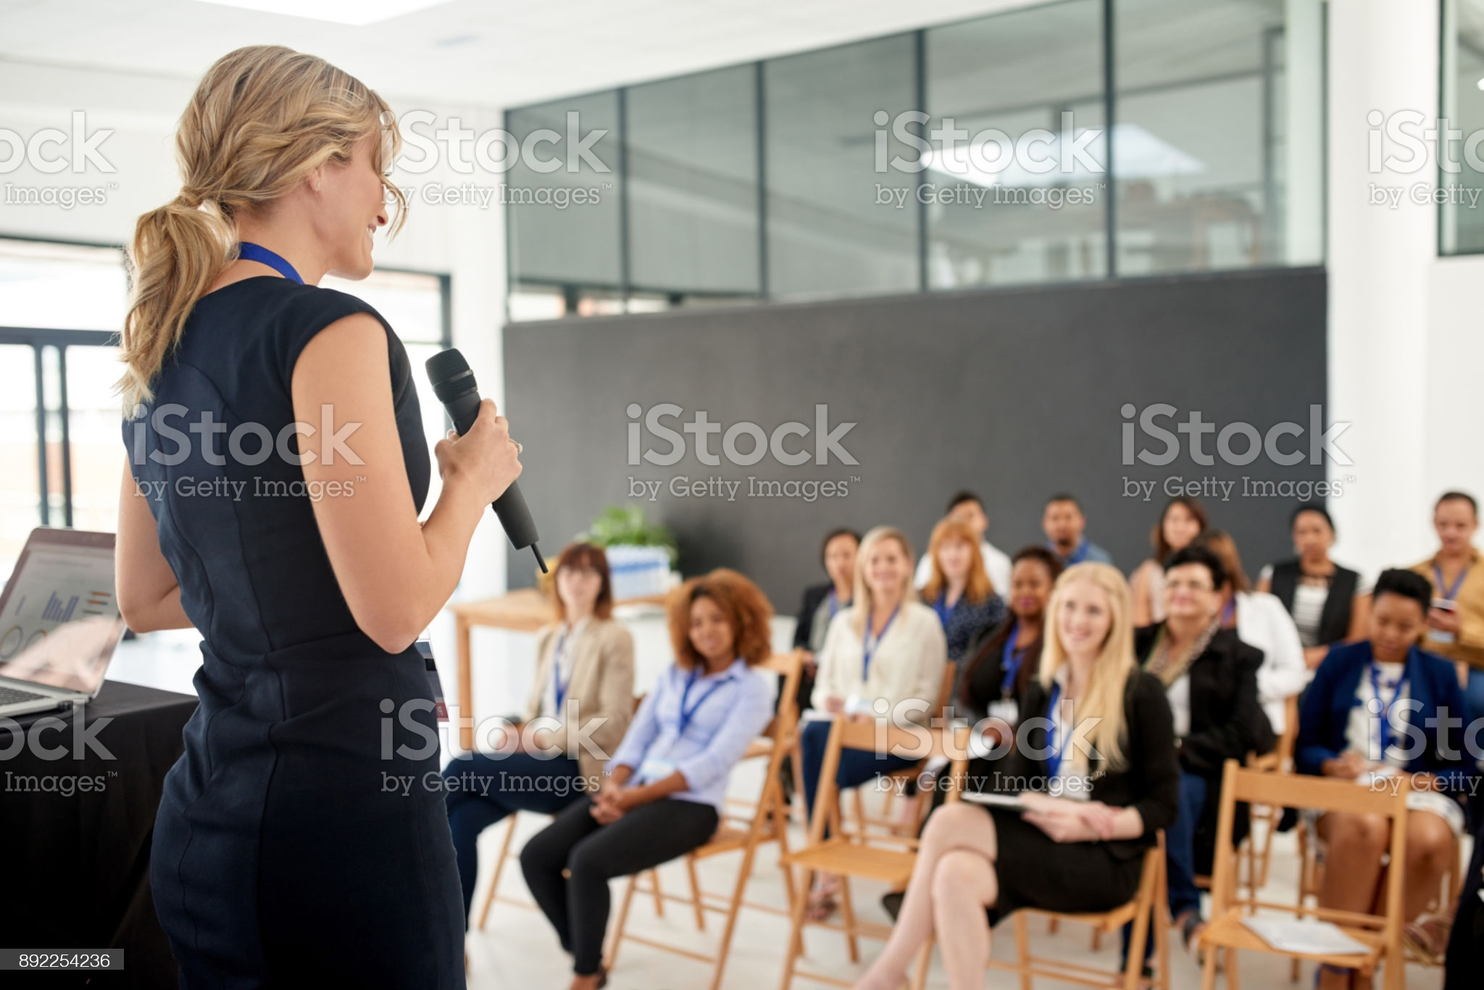
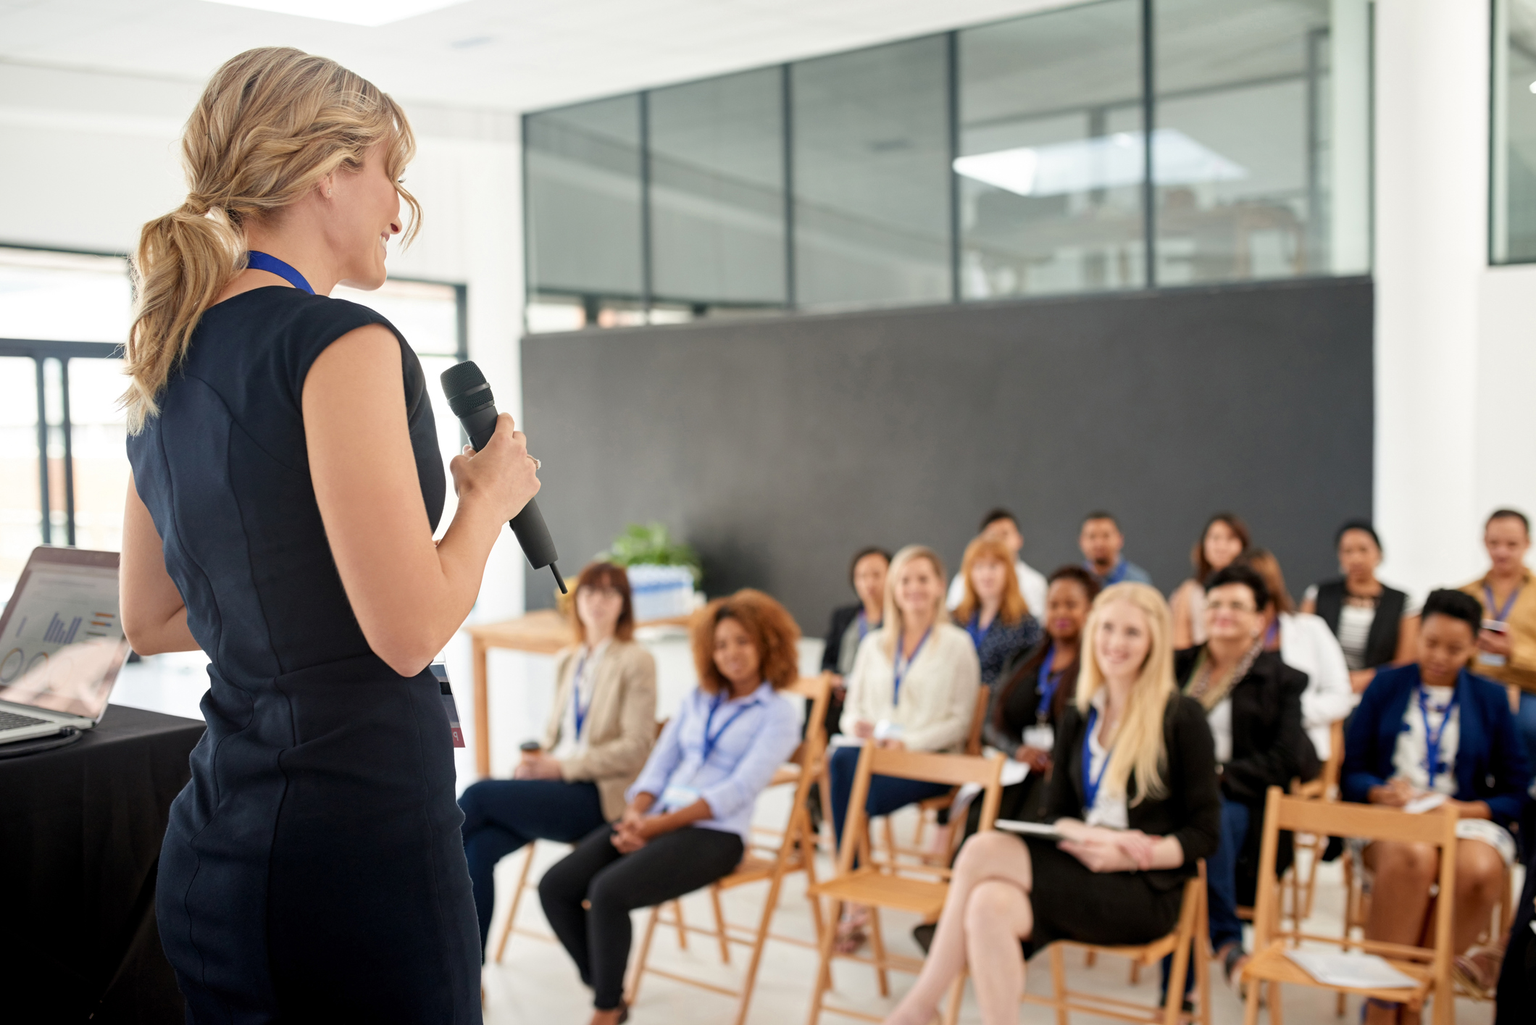
images swap

diff --git a/_site/2020-pitchdeckworkshop.html b/_site/2020-pitchdeckworkshop.html
@@ -1,1 +1,1 @@
-<!DOCTYPE html> <html lang="en" dir="ltr"> <head> <meta charset="utf-8"> <title> Pitch Deck Workshop </title> <meta name="viewport" content="width=device-width"> <meta property="og:locale" content="en_US"> <meta property="og:type" content="article"> <meta property="og:title" content="Pitch Deck Workshop"> <meta property="og:url" content="https://connectinchiangmai.com/2020-pitchdeckworkshop"> <meta property="og:image" content="https://connectinchiangmai.com/assets/images/placeholder-007.jpg " /> <meta property="og:image:url" content="https://connectinchiangmai.com/assets/images/placeholder-007.jpg " /> <meta property="og:image:secure_url" content="https://connectinchiangmai.com/assets/images/placeholder-007.jpg " /> <meta property="og:image:type" content="image/jpg" /> <meta property="og:image:width" content="600" /> <meta property="og:image:alt" content="" /> <meta property="og:site_name" content="Draper Startup House Chiang Mai"> <meta property="og:description" content="Start fundraising for your startup! Join our two-day workshop to perfect your pitch deck and elevator pitch."> <meta property="fb:app_id" content="123456789"> <meta name="twitter:card" content="summary_large_image"/> <meta name="twitter:title" content="Pitch Deck Workshop"> <meta name="twitter:description" content="Start fundraising for your startup! Join our two-day workshop to perfect your pitch deck and elevator pitch."> <meta name="twitter:site" content="@dshchiangmai" /> <meta name="twitter:creator" content="@dshchiangmai"> <meta name="twitter:card" content="summary"> <meta name="keywords" content=" chiang mai startup thailand visa thailand freelancer visa thailand work visa work visa thailand "> <meta itemprop="description" name="description" content="Start fundraising for your startup! Join our two-day workshop to perfect your pitch deck and elevator pitch. " /> <link rel="canonical" href="https://connectinchiangmai.com"> <link href="/styles/fonts.css" rel="stylesheet"> <link rel="stylesheet" href="https://cdnjs.cloudflare.com/ajax/libs/gridlex/2.7.1/gridlex.min.css"> <link rel="stylesheet" href="/styles/aos.css"> <link rel="stylesheet" href="/styles/main.css"> </head> <body> <header> <div class="nav-bar"> <div class="grid-noGutter-spaceBetween"> <div class="col-2_sm-6-middle center"> <a href="/" class=""><img src="/assets/graphics/dsh-white.png" alt="draper startup house thailand logo"/></a> </div> <div class="col-2_sm-6-middle center"> <nav style="display: none;"> <a href="https://tribetheory.cloudbeds.com/reservation/Te57EC?referral_id=18086&association_direct=1#checkin=2020-10-06&checkout=2020-10-07"><p>Hostel</p></a> <a href="/coworking"><p>Coworking</p></a> <a href="/cafe"><p>Cafe</p></a> <a href="/services"><p>Services</p></a> <a href="https://www.eventbrite.com/o/draper-startup-house-chiang-mai-30963569317"><p>Events</p></a> <a href="/about"><p>About</p></a> <a href="/contact"><p>Contact</p></a> </nav> </div> </div> </div> </header> <main> <section class="center above-the-fold-container bg-image title-hero pad-top-m" style="background-image: url(assets/images/pitch3.jpg);"> <div class="above-the-fold-content"> </div></section> <section class="page-body"> <div class="title-pushup"> <h1 class="pad-all-s">Pitch Deck Workshop</h1> </div> <div class=" body-pushup pad-all-s"> <h3 class="editable"> A two-day pitch deck workshop to kickstart your fundraising. </h3> <div class="editable"> <h4>31 October &amp; 1 November, 2020</h4> <h5>Draper Startup House, Chiang Mai</h5> <p>&nbsp;</p> <h2>How do you start fundraising for your startup?</h2> <p>&nbsp;</p> <h4 class="text-accent emphasis">GET THE MEETING</h4> <p>To do this you need:</p> <ol> <li><strong>A Winning Pitch Deck</strong></li> <li><strong>A Persuasive Elevator Pitch</strong></li> </ol> <p>Join us for a two day in-person workshop where you can get guidance on how to improve your deck and pitch. Led by experienced facilitators in a collaborative environment, this is the perfect opportunity to get the critical feedback you need to make it through the challenge of fundraising.</p> <p>Beyond polishing your pitch deck, founders who complete this program will get the opportunity to pitch to real investors, Thai and international, and a chance to have their pitch syndicated throughout the <a target="_blank" rel="noopener" href="https://draperstartuphouse.com/ventures/">Draper Ventures Network</a>.</p> <p>Ready to scale and grow your startup?</p> <p><a target="blank" class="btn btn-wide aos-init" data-aos="zoom-in" href="https://docs.google.com/forms/d/e/1FAIpQLSeyKoQJoz_DanU2egc6DfwQHbZGyYKghuvFiqJabCR9bDw8dw/viewform">Apply Now</a></p> <h3>&nbsp;</h3> <p><img alt="business plan on desk" src="/uploads/pexels-fauxels-3184292-2.jpg" /></p> <p>&nbsp;</p> <h3>This workshop is for you if:</h3> <ul> <li>You have already started your pitch deck, but you don&rsquo;t know who to send it to.</li> <li>The pitch seems good on paper, but you&rsquo;re not confident when presenting it.</li> <li>Investors are intrigued by your idea, but don&rsquo;t seem to *get it* yet.</li> <li>Your company is ready to grow and scale with the right support.</li> </ul> <h3>This workshop is <em>not</em> for you if:</h3> <ul> <li>You&rsquo;ve just started and you&rsquo;re not sure yet what funding you need.</li> <li>Your idea or IP cannot be shared openly without an NDA.</li> <li>You just want to make a good presentation for the sake of an award.</li> </ul> <h4 class="text-accent emphasis">LET'S GET YOUR STARTUP ON THE PATH TO FUNDRAISING</h4> <p><em>Suitable for all funding stages.</em></p> <p>&nbsp;</p> <p><br /><img alt="group getting coaching feedback" src="/uploads/istock-914314342.jpg" /></p> <p>&nbsp;</p> <h2>Agenda</h2> <h4>Day 1: Perfect Your Slide Deck</h4> <ul> <li>What makes a good slide deck?</li> <li>What convinces an investor to take a meeting?</li> <li>How do you tell a good story?</li> <li>Which order is the most compelling and what slides do you actually need?</li> <li>How does good design help you make your argument?</li> </ul> <p>Along with guidance from mentors, you will discuss and share ideas with your fellow startups on how to improve and perfect your pitch deck.&nbsp;</p> <h4>Day 2: Nail Your Elevator Pitch</h4> <ul> <li>How do you explain your startup in less than 3 minutes?</li> <li>What are common questions people have for you and what&rsquo;s confusing about your pitch?</li> <li>What is essential to your business and what&rsquo;s fluff?</li> <li>Exactly how much information do you share to start, and what do you save for behind closed doors?</li> </ul> <p>This is the day to practice your presentation skills. Founders will each get a turn to pitch in front of the group to receive coaching and feedback. Elevator pitches will be revised, drilled and perfected so they become second-nature.</p> <h4>Beyond the pitch itself, we will also discuss:</h4> <ul> <li>How do you turn an elevator pitch into an opportunity to secure investment?</li> <li>Where and how do you send your pitch deck to get investment?</li> <li>What else do you need to learn before you&rsquo;re ready to get investment?</li> </ul> <p>&nbsp;</p> <h2>Sign up now for this two day Pitch Deck Workshop</h2> <h4 class="text-accent emphasis">PERFECT YOUR PITCH DECK TO GET THE MEETING</h4> <h3>31 October &amp; 1 November, 2020</h3> <h4>Draper Startup House, Chiang Mai</h4> <p>฿8000 per startup (up to 2 cofounders can join with the same ticket)</p> <p class="emphasis"><em> </em><em>฿5000</em>&nbsp;<em>EARLYBIRD PRICING</em></p> <p>If you're serious about seeking investment, this thorough professional review of your deck offers great return on investment.</p> <p><a target="blank" class="btn btn-wide aos-init" data-aos="zoom-in" href="https://docs.google.com/forms/d/e/1FAIpQLSeyKoQJoz_DanU2egc6DfwQHbZGyYKghuvFiqJabCR9bDw8dw/viewform">Register Now to Lock in This Pricing</a></p> <p>&nbsp;</p> <p>This workshop is presented by:</p> <div class="grid-middle-spaceAround"> <div class="col-5"><a target="_blank" rel="noopener" href="https://draperstartuphouse.com/ventures/"><img alt="Draper Startup House Logo" src="/assets/graphics/dsh.png" /></a></div> <div class="col-5"><a target="_blank" rel="noopener" href="https://www.facebook.com/2extcom/"><img alt="2Ext Logo" src="/assets/graphics/2ext-logo.jpg" /></a></div> </div> <h2>What do you need a pitch deck for?</h2> <ul> <li>If you&rsquo;re applying for accelerator or incubator programs or government grants, often a pitch deck is required.</li> <li>If you&rsquo;re applying for the Thailand SMART Visa, you need to submit a pitch deck with your application</li> <li>If you&rsquo;re fundraising for your startup, a pitch deck is often the first step to getting a meeting with an investor.</li> </ul> <h4 class="text-accent emphasis">WHEN YOU HAVE LIMITED TIME TO MAKE AN IMPRESSION,</h4> <h4 class="text-accent emphasis">MAKE THE MOMENT COUNT</h4> <p>Perfect your pitch deck to take your startup to the next level.</p> <p><a target="blank" class="btn btn-wide aos-init" data-aos="zoom-in" href="https://docs.google.com/forms/d/e/1FAIpQLSeyKoQJoz_DanU2egc6DfwQHbZGyYKghuvFiqJabCR9bDw8dw/viewform">Apply Now</a></p> <br /><br /> <p><img src="/uploads/istock-1175264749.jpg" alt="woman presenting to group"/></p> <br /><br /> <h2>BONUS: PITCH DAY</h2> <p>3-5 of the most promising startups participating in this workshop will be invited for a Virtual Pitch Day to present their company to <em>real investors</em>.</p> <p>The benefit of this program is not a hypothetical chance to get investment someday...somewhere...somehow&hellip;</p> <p>We will actively work to match qualified startups to investment opportunities.&nbsp;</p> <p><a target="blank" class="btn btn-wide aos-init" data-aos="zoom-in" href="https://docs.google.com/forms/d/e/1FAIpQLSeyKoQJoz_DanU2egc6DfwQHbZGyYKghuvFiqJabCR9bDw8dw/viewform">Register for the Workshop</a></p> <br /><br /> <h4>Got questions? Not sure if you qualify? Need more details about the program?</h4> <p>Send an email to <a href="mailto:lily@draperstartuphouse.com">lily@draperstartuphouse.com</a></p> </div> </div> </section> <section id="contact-form" class="bg-contact-form" style=" background: linear-gradient(rgba(32, 66, 112,0.5), rgba(32, 66, 112,0.5)), url('/assets/images/DraperHouseInterior2-45.JPG'); "> <div class="center padding-md" data-aos="zoom-in"> <h2 class="text-white editable pad-all-s"> Contact Us </h2> <form id="message-form" class="sign-up-form" action="index.html" method="post"> <input type="name" name="name" value="" placeholder="Your Name" /> <input type="email" name="email" value="" placeholder="Your Email" /> <textarea name="message" id="message" rows="10" placeholder="Your Message"></textarea> <button type="submit" name="button" class="btn-light editable">Send Email</button> </form> </div> </section> </main> <footer id="footer" class="footer padding-md center grid-center-spaceBetween"> <div class="col-12"> <h3 class="text-white">Contact Us</h3> <p class="text-white"> 12/8 Nimmanhaemin Soi 13<br />Tambon Suthep Amphur Muang<br />Chiang Mai 50200 </p> <a href="mailto:chiangmai@draperstartuphouse.com" target="blank"><p class="text-white"> chiangmai@draperstartuphouse.com </p></a> <div class="grid-center"> <div class="col-4 grid-spaceAround"> <a href="https://www.facebook.com/dshchiangmai" target=blank><i class="fa fa-facebook-square" aria-hidden="true"></i></a> <a href="https://instagram.com/dshchiangmai" target=blank><i class="fa fa-instagram" aria-hidden="true"></i></a> <a href="https://www.linkedin.com/company/draperstartuphouse/" target=blank><i class="fa fa-linkedin" aria-hidden="true"></i></i></a> <a href="https://twitter.com/dshchiangmai" target=blank><i class="fa fa-twitter" aria-hidden="true"></i></a> </div> </div> </div> <span class="col-12"> © Draper Startup House <script type="text/javascript"> document.write(new Date().getFullYear()); </script> </span> </footer> <script src="https://ajax.googleapis.com/ajax/libs/jquery/3.5.1/jquery.min.js"></script> <script src="/js/jquery.js" type="text/javascript"></script> <script src="/js/aos.js" type="text/javascript"></script> <script type="text/javascript"> AOS.init() </script> <script src="https://kit.fontawesome.com/edb2e6c3e3.js" crossorigin="anonymous"></script> </body> </html>
+<!DOCTYPE html> <html lang="en" dir="ltr"> <head> <meta charset="utf-8"> <title> Pitch Deck Workshop </title> <meta name="viewport" content="width=device-width"> <meta property="og:locale" content="en_US"> <meta property="og:type" content="article"> <meta property="og:title" content="Pitch Deck Workshop"> <meta property="og:url" content="https://connectinchiangmai.com/2020-pitchdeckworkshop"> <meta property="og:image" content="https://connectinchiangmai.com/assets/images/pitch3.jpg " /> <meta property="og:image:url" content="https://connectinchiangmai.com/assets/images/pitch3.jpg " /> <meta property="og:image:secure_url" content="https://connectinchiangmai.com/assets/images/pitch3.jpg " /> <meta property="og:image:type" content="image/jpg" /> <meta property="og:image:width" content="600" /> <meta property="og:image:alt" content="" /> <meta property="og:site_name" content="Draper Startup House Chiang Mai"> <meta property="og:description" content="Start fundraising for your startup! Join our two-day workshop to perfect your pitch deck and elevator pitch."> <meta property="fb:app_id" content="123456789"> <meta name="twitter:card" content="summary_large_image"/> <meta name="twitter:title" content="Pitch Deck Workshop"> <meta name="twitter:description" content="Start fundraising for your startup! Join our two-day workshop to perfect your pitch deck and elevator pitch."> <meta name="twitter:site" content="@dshchiangmai" /> <meta name="twitter:creator" content="@dshchiangmai"> <meta name="twitter:card" content="summary"> <meta name="keywords" content=" chiang mai startup thailand visa thailand freelancer visa thailand work visa work visa thailand "> <meta itemprop="description" name="description" content="Start fundraising for your startup! Join our two-day workshop to perfect your pitch deck and elevator pitch. " /> <link rel="canonical" href="https://connectinchiangmai.com"> <link href="/styles/fonts.css" rel="stylesheet"> <link rel="stylesheet" href="https://cdnjs.cloudflare.com/ajax/libs/gridlex/2.7.1/gridlex.min.css"> <link rel="stylesheet" href="/styles/aos.css"> <link rel="stylesheet" href="/styles/main.css"> </head> <body> <header> <div class="nav-bar"> <div class="grid-noGutter-spaceBetween"> <div class="col-2_sm-6-middle center"> <a href="/" class=""><img src="/assets/graphics/dsh-white.png" alt="draper startup house thailand logo"/></a> </div> <div class="col-2_sm-6-middle center"> <nav style="display: none;"> <a href="https://tribetheory.cloudbeds.com/reservation/Te57EC?referral_id=18086&association_direct=1#checkin=2020-10-06&checkout=2020-10-07"><p>Hostel</p></a> <a href="/coworking"><p>Coworking</p></a> <a href="/cafe"><p>Cafe</p></a> <a href="/services"><p>Services</p></a> <a href="https://www.eventbrite.com/o/draper-startup-house-chiang-mai-30963569317"><p>Events</p></a> <a href="/about"><p>About</p></a> <a href="/contact"><p>Contact</p></a> </nav> </div> </div> </div> </header> <main> <section class="center above-the-fold-container bg-image title-hero pad-top-m" style="background-image: url(assets/images/pitch3.jpg);"> <div class="above-the-fold-content"> </div></section> <section class="page-body"> <div class="title-pushup"> <h1 class="pad-all-s">Pitch Deck Workshop</h1> </div> <div class=" body-pushup pad-all-s"> <h3 class="editable"> A two-day pitch deck workshop to kickstart your fundraising. </h3> <div class="editable"> <h4>31 October &amp; 1 November, 2020</h4> <h5>Draper Startup House, Chiang Mai</h5> <p>&nbsp;</p> <h2>How do you start fundraising for your startup?</h2> <p>&nbsp;</p> <h4 class="text-accent emphasis">GET THE MEETING</h4> <p>To do this you need:</p> <ol> <li><strong>A Winning Pitch Deck</strong></li> <li><strong>A Persuasive Elevator Pitch</strong></li> </ol> <p>Join us for a two day in-person workshop where you can get guidance on how to improve your deck and pitch. Led by experienced facilitators in a collaborative environment, this is the perfect opportunity to get the critical feedback you need to make it through the challenge of fundraising.</p> <p>Beyond polishing your pitch deck, founders who complete this program will get the opportunity to pitch to real investors, Thai and international, and a chance to have their pitch syndicated throughout the <a target="_blank" rel="noopener" href="https://draperstartuphouse.com/ventures/">Draper Ventures Network</a>.</p> <p>Ready to scale and grow your startup?</p> <p><a target="blank" class="btn btn-wide aos-init" data-aos="zoom-in" href="https://docs.google.com/forms/d/e/1FAIpQLSeyKoQJoz_DanU2egc6DfwQHbZGyYKghuvFiqJabCR9bDw8dw/viewform">Apply Now</a></p> <h3>&nbsp;</h3> <p><img alt="business plan on desk" src="/uploads/pexels-fauxels-3184292-2.jpg" /></p> <p>&nbsp;</p> <h3>This workshop is for you if:</h3> <ul> <li>You have already started your pitch deck, but you don&rsquo;t know who to send it to.</li> <li>The pitch seems good on paper, but you&rsquo;re not confident when presenting it.</li> <li>Investors are intrigued by your idea, but don&rsquo;t seem to *get it* yet.</li> <li>Your company is ready to grow and scale with the right support.</li> </ul> <h3>This workshop is <em>not</em> for you if:</h3> <ul> <li>You&rsquo;ve just started and you&rsquo;re not sure yet what funding you need.</li> <li>Your idea or IP cannot be shared openly without an NDA.</li> <li>You just want to make a good presentation for the sake of an award.</li> </ul> <h4 class="text-accent emphasis">LET'S GET YOUR STARTUP ON THE PATH TO FUNDRAISING</h4> <p><em>Suitable for all funding stages.</em></p> <p>&nbsp;</p> <p><br /><img alt="group getting coaching feedback" src="/uploads/istock-914314342.jpg" /></p> <p>&nbsp;</p> <h2>Agenda</h2> <h4>Day 1: Perfect Your Slide Deck</h4> <ul> <li>What makes a good slide deck?</li> <li>What convinces an investor to take a meeting?</li> <li>How do you tell a good story?</li> <li>Which order is the most compelling and what slides do you actually need?</li> <li>How does good design help you make your argument?</li> </ul> <p>Along with guidance from mentors, you will discuss and share ideas with your fellow startups on how to improve and perfect your pitch deck.&nbsp;</p> <h4>Day 2: Nail Your Elevator Pitch</h4> <ul> <li>How do you explain your startup in less than 3 minutes?</li> <li>What are common questions people have for you and what&rsquo;s confusing about your pitch?</li> <li>What is essential to your business and what&rsquo;s fluff?</li> <li>Exactly how much information do you share to start, and what do you save for behind closed doors?</li> </ul> <p>This is the day to practice your presentation skills. Founders will each get a turn to pitch in front of the group to receive coaching and feedback. Elevator pitches will be revised, drilled and perfected so they become second-nature.</p> <h4>Beyond the pitch itself, we will also discuss:</h4> <ul> <li>How do you turn an elevator pitch into an opportunity to secure investment?</li> <li>Where and how do you send your pitch deck to get investment?</li> <li>What else do you need to learn before you&rsquo;re ready to get investment?</li> </ul> <p>&nbsp;</p> <h2>Sign up now for this two day Pitch Deck Workshop</h2> <h4 class="text-accent emphasis">PERFECT YOUR PITCH DECK TO GET THE MEETING</h4> <h3>31 October &amp; 1 November, 2020</h3> <h4>Draper Startup House, Chiang Mai</h4> <p>฿8000 per startup (up to 2 cofounders can join with the same ticket)</p> <p class="emphasis"><em> </em><em>฿5000</em>&nbsp;<em>EARLYBIRD PRICING</em></p> <p>If you're serious about seeking investment, this thorough professional review of your deck offers great return on investment.</p> <p><a target="blank" class="btn btn-wide aos-init" data-aos="zoom-in" href="https://docs.google.com/forms/d/e/1FAIpQLSeyKoQJoz_DanU2egc6DfwQHbZGyYKghuvFiqJabCR9bDw8dw/viewform">Register Now to Lock in This Pricing</a></p> <p>&nbsp;</p> <p>This workshop is presented by:</p> <div class="grid-middle-spaceAround"> <div class="col-5"><a target="_blank" rel="noopener" href="https://draperstartuphouse.com/ventures/"><img alt="Draper Startup House Logo" src="/assets/graphics/dsh.png" /></a></div> <div class="col-5"><a target="_blank" rel="noopener" href="https://www.facebook.com/2extcom/"><img alt="2Ext Logo" src="/assets/graphics/2ext-logo.jpg" /></a></div> </div> <h2>What do you need a pitch deck for?</h2> <ul> <li>If you&rsquo;re applying for accelerator or incubator programs or government grants, often a pitch deck is required.</li> <li>If you&rsquo;re applying for the Thailand SMART Visa, you need to submit a pitch deck with your application</li> <li>If you&rsquo;re fundraising for your startup, a pitch deck is often the first step to getting a meeting with an investor.</li> </ul> <h4 class="text-accent emphasis">WHEN YOU HAVE LIMITED TIME TO MAKE AN IMPRESSION,</h4> <h4 class="text-accent emphasis">MAKE THE MOMENT COUNT</h4> <p>Perfect your pitch deck to take your startup to the next level.</p> <p><a target="blank" class="btn btn-wide aos-init" data-aos="zoom-in" href="https://docs.google.com/forms/d/e/1FAIpQLSeyKoQJoz_DanU2egc6DfwQHbZGyYKghuvFiqJabCR9bDw8dw/viewform">Apply Now</a></p> <br /><br /> <p><img src="/uploads/istock-1175264749.jpg" alt="woman presenting to group"/></p> <br /><br /> <h2>BONUS: PITCH DAY</h2> <p>3-5 of the most promising startups participating in this workshop will be invited for a Virtual Pitch Day to present their company to <em>real investors</em>.</p> <p>The benefit of this program is not a hypothetical chance to get investment someday...somewhere...somehow&hellip;</p> <p>We will actively work to match qualified startups to investment opportunities.&nbsp;</p> <p><a target="blank" class="btn btn-wide aos-init" data-aos="zoom-in" href="https://docs.google.com/forms/d/e/1FAIpQLSeyKoQJoz_DanU2egc6DfwQHbZGyYKghuvFiqJabCR9bDw8dw/viewform">Register for the Workshop</a></p> <br /><br /> <h4>Got questions? Not sure if you qualify? Need more details about the program?</h4> <p>Send an email to <a href="mailto:lily@draperstartuphouse.com">lily@draperstartuphouse.com</a></p> </div> </div> </section> <section id="contact-form" class="bg-contact-form" style=" background: linear-gradient(rgba(32, 66, 112,0.5), rgba(32, 66, 112,0.5)), url('/assets/images/DraperHouseInterior2-45.JPG'); "> <div class="center padding-md" data-aos="zoom-in"> <h2 class="text-white editable pad-all-s"> Contact Us </h2> <form id="message-form" class="sign-up-form" action="index.html" method="post"> <input type="name" name="name" value="" placeholder="Your Name" /> <input type="email" name="email" value="" placeholder="Your Email" /> <textarea name="message" id="message" rows="10" placeholder="Your Message"></textarea> <button type="submit" name="button" class="btn-light editable">Send Email</button> </form> </div> </section> </main> <footer id="footer" class="footer padding-md center grid-center-spaceBetween"> <div class="col-12"> <h3 class="text-white">Contact Us</h3> <p class="text-white"> 12/8 Nimmanhaemin Soi 13<br />Tambon Suthep Amphur Muang<br />Chiang Mai 50200 </p> <a href="mailto:chiangmai@draperstartuphouse.com" target="blank"><p class="text-white"> chiangmai@draperstartuphouse.com </p></a> <div class="grid-center"> <div class="col-4 grid-spaceAround"> <a href="https://www.facebook.com/dshchiangmai" target=blank><i class="fa fa-facebook-square" aria-hidden="true"></i></a> <a href="https://instagram.com/dshchiangmai" target=blank><i class="fa fa-instagram" aria-hidden="true"></i></a> <a href="https://www.linkedin.com/company/draperstartuphouse/" target=blank><i class="fa fa-linkedin" aria-hidden="true"></i></i></a> <a href="https://twitter.com/dshchiangmai" target=blank><i class="fa fa-twitter" aria-hidden="true"></i></a> </div> </div> </div> <span class="col-12"> © Draper Startup House <script type="text/javascript"> document.write(new Date().getFullYear()); </script> </span> </footer> <script src="https://ajax.googleapis.com/ajax/libs/jquery/3.5.1/jquery.min.js"></script> <script src="/js/jquery.js" type="text/javascript"></script> <script src="/js/aos.js" type="text/javascript"></script> <script type="text/javascript"> AOS.init() </script> <script src="https://kit.fontawesome.com/edb2e6c3e3.js" crossorigin="anonymous"></script> </body> </html>

diff --git a/_pages/2020-pitchdeckworkshop.html b/_pages/2020-pitchdeckworkshop.html
@@ -4,7 +4,7 @@ title: Pitch Deck Workshop
 description: >-
   Start fundraising for your startup! Join our two-day workshop to perfect your
   pitch deck and elevator pitch.
-preview_image: assets/images/placeholder-007.jpg
+preview_image: assets/images/pitch3.jpg
 header_image: assets/images/pitch3.jpg
 ---
 
